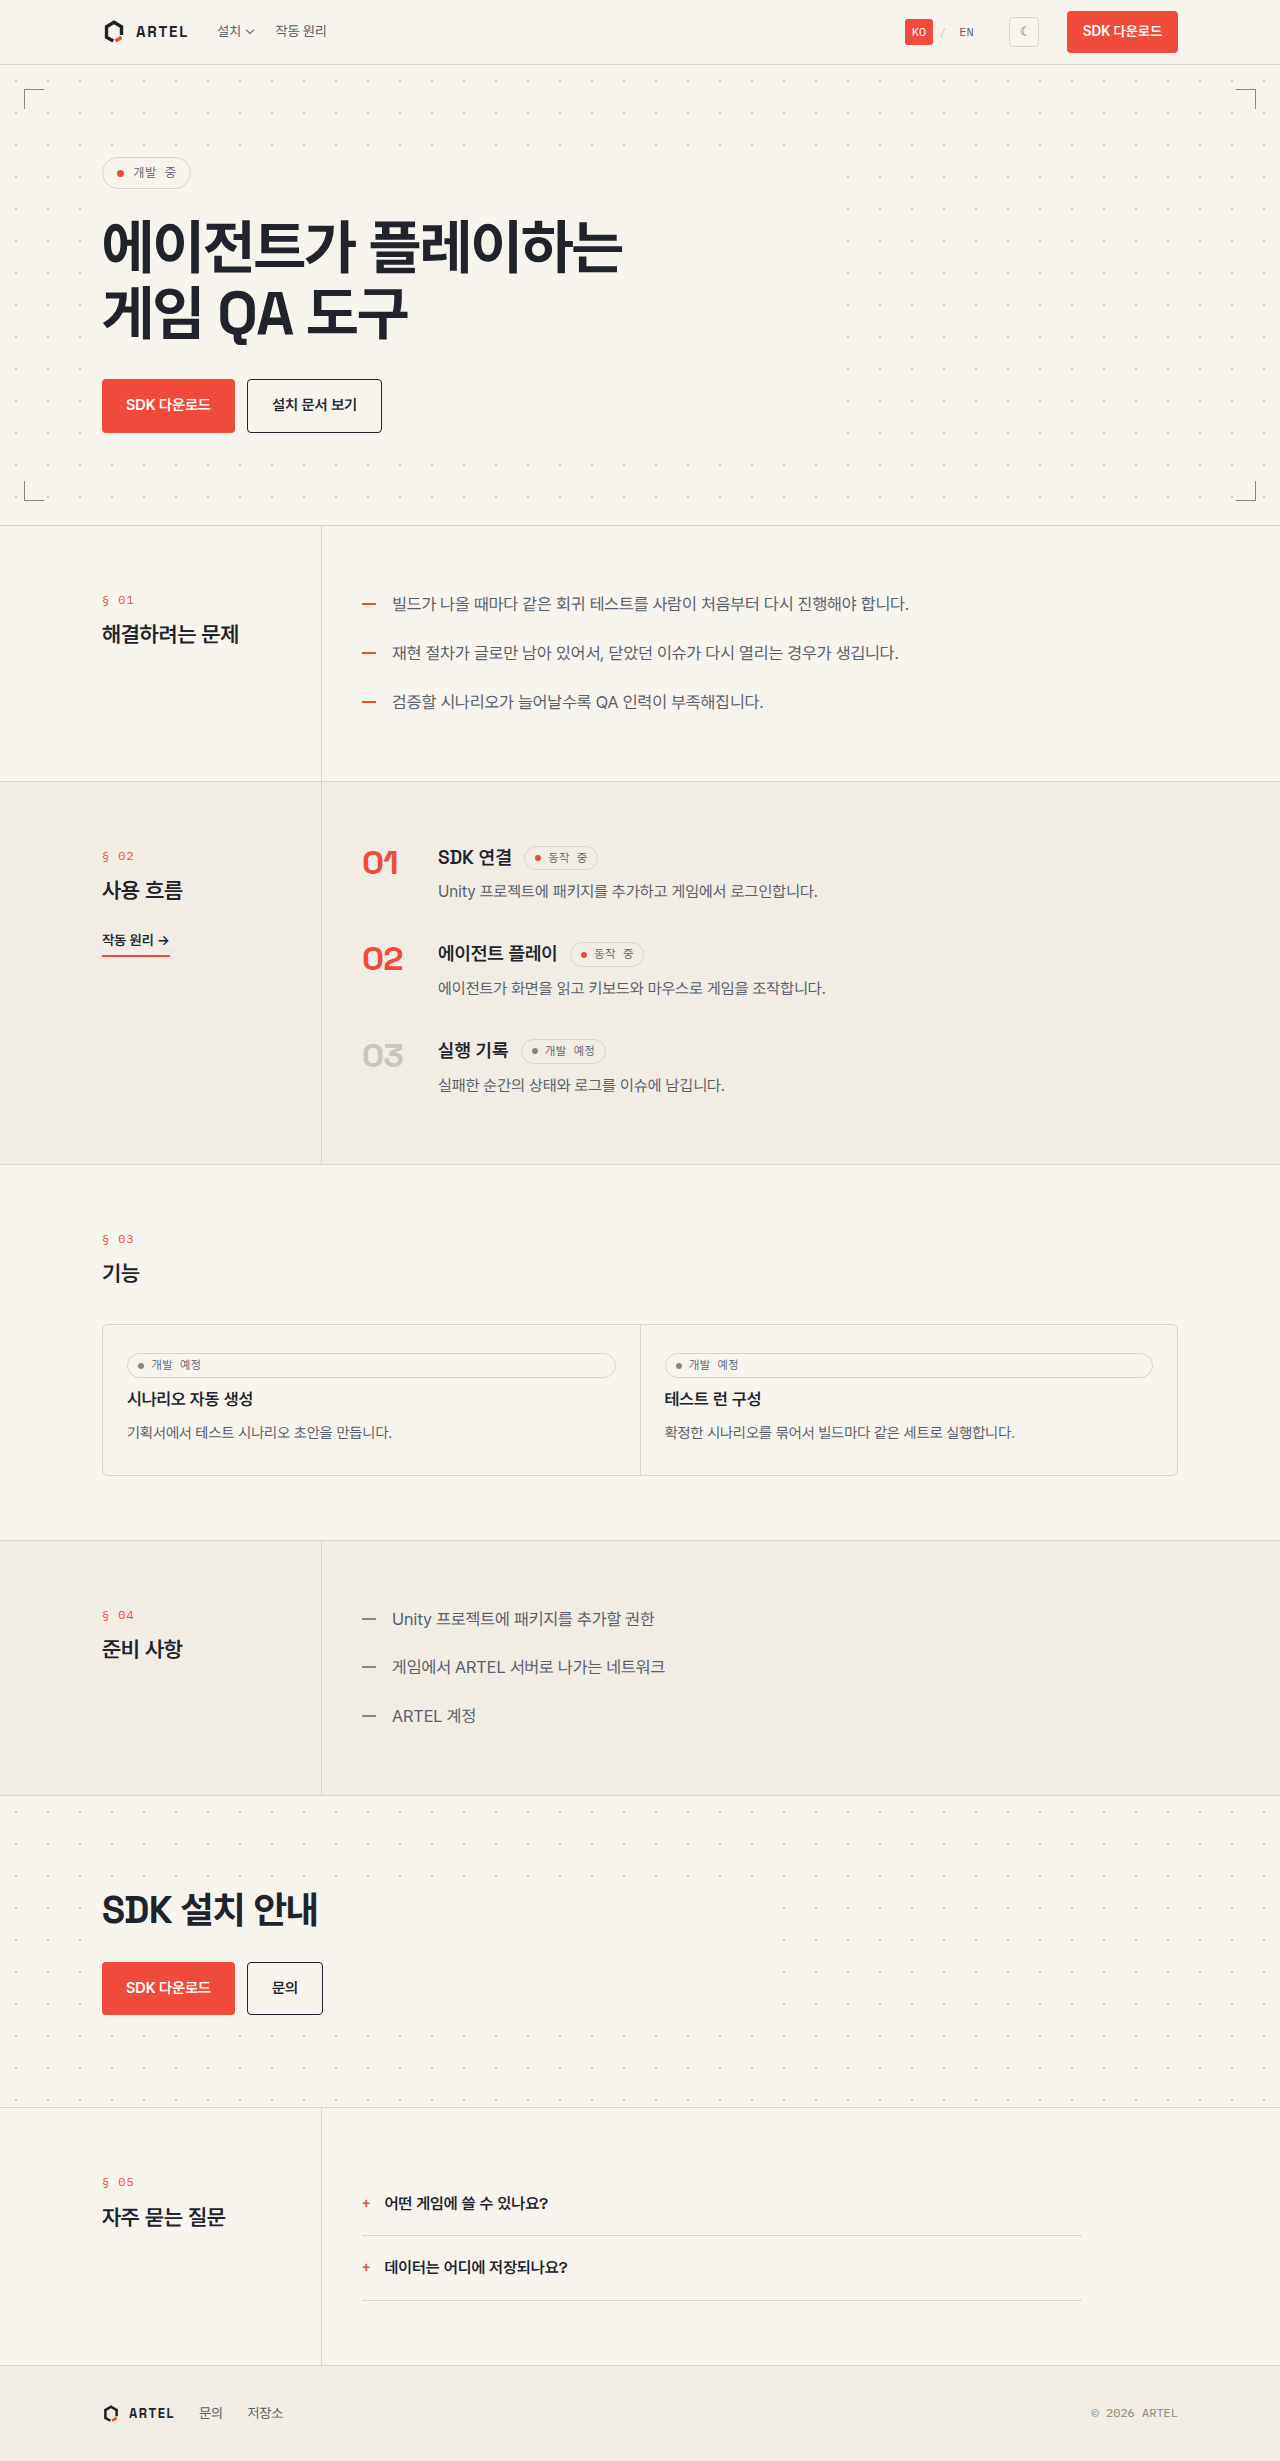
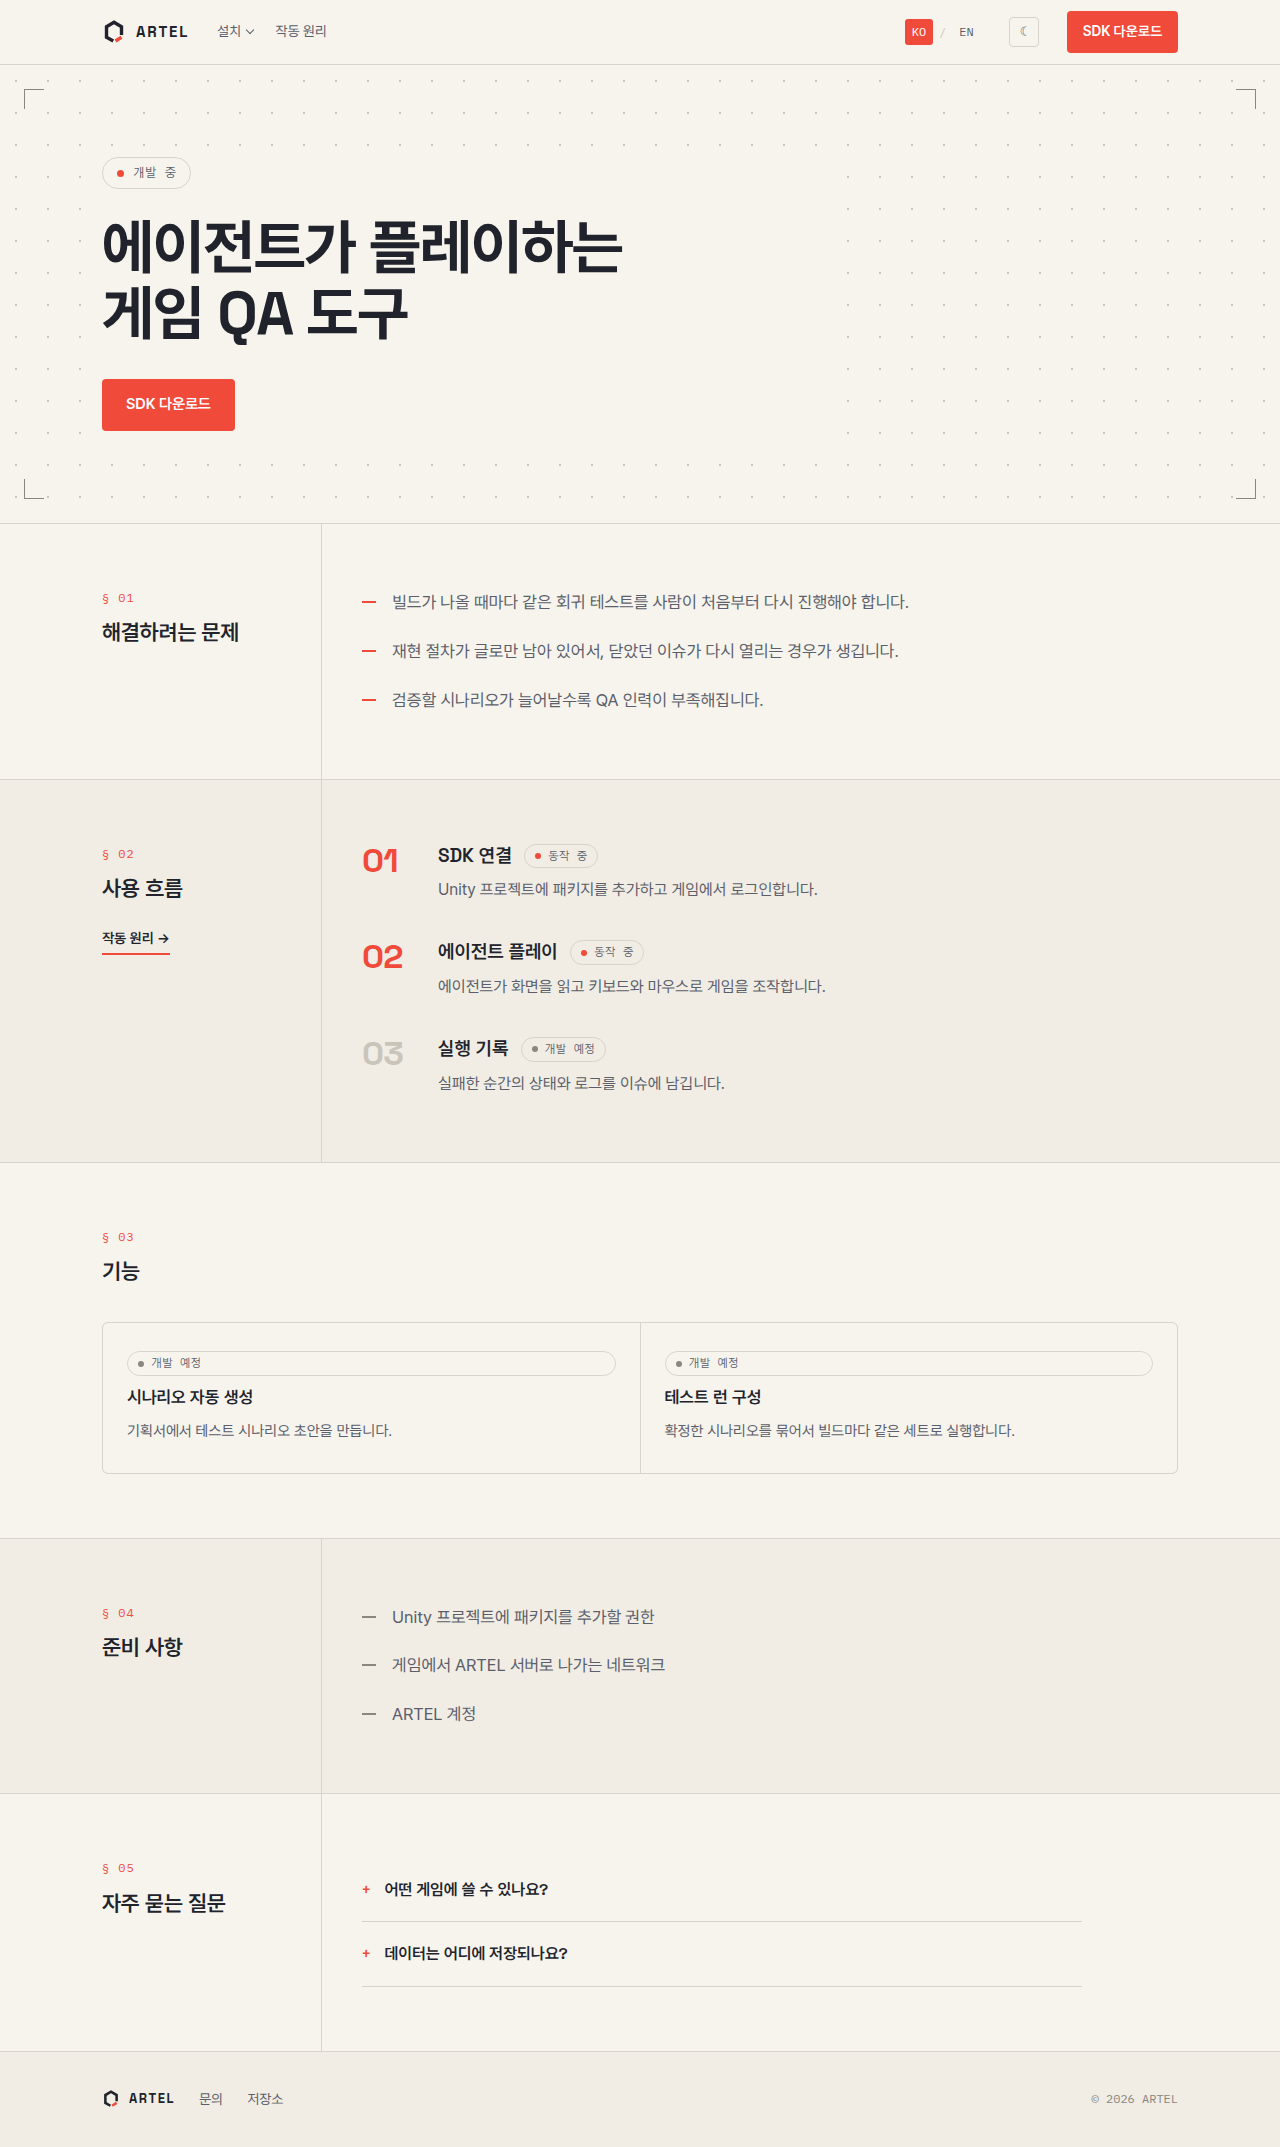
refactor: 랜딩의 중복 버튼과 하단 CTA, 설치 스크립트의 상태 확인 명령 제거
히어로의 두 버튼이 모두 SDK 페이지로 갔고, 하단 CTA 는 header 와 히어로의 SDK 다운로드와 footer 의
문의를 다시 보여 줬다. llms.txt 의 셀프 호스팅 설명도 페이지에 맞춘다.

diff --git a/src/i18n/messages.ts b/src/i18n/messages.ts
@@ -12,7 +12,6 @@ const desktopReleasesUrl = 'https://github.com/project-artel/artel-desktop/relea
 export type SelfHostingCodeKey =
   | 'install'
   | 'installWithFlags'
-  | 'installAfter'
   | 'composeFile'
   | 'generateSecret'
   | 'composeUp'
@@ -55,7 +54,6 @@ type Copy = {
     status: string
     title: string
     primaryCta: string
-    secondaryCta: string
   }
   problem: { title: string; items: string[] }
   steps: {
@@ -67,7 +65,6 @@ type Copy = {
     items: { title: string; body: string; state: Availability }[]
   }
   requirements: { title: string; items: string[] }
-  cta: { title: string }
   faq: { title: string; items: { q: string; a: string }[] }
   footer: { contact: string; repository: string; language: string }
   sdk: {
@@ -148,7 +145,6 @@ const ko: Copy = {
     status: '개발 중',
     title: '에이전트가 플레이하는 게임 QA 도구',
     primaryCta: 'SDK 다운로드',
-    secondaryCta: '설치 문서 보기',
   },
   problem: {
     title: '해결하려는 문제',
@@ -203,9 +199,6 @@ const ko: Copy = {
       '게임에서 ARTEL 서버로 나가는 네트워크',
       'ARTEL 계정',
     ],
-  },
-  cta: {
-    title: 'SDK 설치 안내',
   },
   faq: {
     title: '자주 묻는 질문',
@@ -467,10 +460,6 @@ artel qa run --test-run <id> --instance <id>`,
                 kind: 'paragraph',
                 text: 'http://localhost:8088/ 을 엽니다.',
               },
-              {
-                kind: 'code',
-                code: 'installAfter',
-              },
             ],
           },
         ],
@@ -644,7 +633,6 @@ const en: Copy = {
     status: 'In development',
     title: 'A game QA tool where an agent plays the game',
     primaryCta: 'Download SDK',
-    secondaryCta: 'Read install guide',
   },
   problem: {
     title: 'The problem',
@@ -699,9 +687,6 @@ const en: Copy = {
       'Outbound network from the game to the ARTEL server',
       'An ARTEL account',
     ],
-  },
-  cta: {
-    title: 'Installing the SDK',
   },
   faq: {
     title: 'Questions',
@@ -962,10 +947,6 @@ artel qa run --test-run <id> --instance <id>`,
               {
                 kind: 'paragraph',
                 text: 'Open http://localhost:8088/.',
-              },
-              {
-                kind: 'code',
-                code: 'installAfter',
               },
             ],
           },

diff --git a/src/pages/LandingPage.tsx b/src/pages/LandingPage.tsx
@@ -21,9 +21,6 @@ export function LandingPage() {
               <Link className="btn btn--primary" to={href('/sdk')}>
                 {t.hero.primaryCta}
               </Link>
-              <Link className="btn btn--ghost" to={href('/sdk')}>
-                {t.hero.secondaryCta}
-              </Link>
             </div>
           </div>
         </div>
@@ -99,23 +96,6 @@ export function LandingPage() {
           ))}
         </ul>
       </RailSection>
-
-      {/* 히어로와 같은 점 그리드. 크롭마크는 히어로 전용이라 여기엔 없다. */}
-      <section className="section hero">
-        <div className="shell hero__inner">
-          <div className="hero__copy hero__copy--narrow">
-            <h2 className="cta__title">{t.cta.title}</h2>
-            <div className="hero__actions hero__actions--cta">
-              <Link className="btn btn--primary" to={href('/sdk')}>
-                {t.hero.primaryCta}
-              </Link>
-              <a className="btn btn--ghost" href="mailto:contact@artel.dev">
-                {t.footer.contact}
-              </a>
-            </div>
-          </div>
-        </div>
-      </section>
 
       <RailSection num="§ 05" title={t.faq.title}>
         <div className="faq">

diff --git a/src/styles/marketing.css b/src/styles/marketing.css
@@ -342,18 +342,6 @@ summary::-webkit-details-marker { display: none; }
 .hero__inner--page { padding: 80px 0 72px; }
 .hero__copy--narrow { max-width: 680px; }
 
-/* CTA 밴드. 히어로와 같은 점 그리드를 쓰지만 크롭마크는 없다. */
-.cta__title {
-  margin: 0 0 14px;
-  font-family: var(--font-display);
-  font-size: clamp(28px, 3.4vw, 38px);
-  line-height: 1.2;
-  font-weight: 700;
-  letter-spacing: -0.02em;
-  text-wrap: balance;
-}
-.hero__actions--cta { margin-top: 28px; }
-
 /* 작동 원리 수명주기 스텝은 랜딩 스텝보다 한 단계 작다. */
 .steps--sm { gap: 32px; }
 .steps--sm .step__num { font-size: 30px; }

diff --git a/src/components/SelfHostingBlocks.tsx b/src/components/SelfHostingBlocks.tsx
@@ -6,7 +6,6 @@ import { CodeBlock } from './CodeBlock'
 const codeByKey: Record<SelfHostingCodeKey, string> = {
   install: commands.installCommand,
   installWithFlags: commands.installWithFlagsCommand,
-  installAfter: commands.installAfterCommand,
   composeFile: composeFile,
   generateSecret: commands.generateSecretCommand,
   composeUp: commands.composeUpCommands,

diff --git a/src/pages/selfHostingCommands.ts b/src/pages/selfHostingCommands.ts
@@ -7,8 +7,6 @@ export const installCommand =
 
 export const installWithFlagsCommand = `${installCommand} -s -- --dir /opt/artel --port 8088`
 
-export const installAfterCommand = 'cd $HOME/artel\ndocker compose ps'
-
 export const generateSecretCommand = 'openssl rand -hex 32'
 
 export const composeUpCommands = 'docker compose up -d\ndocker compose ps'
